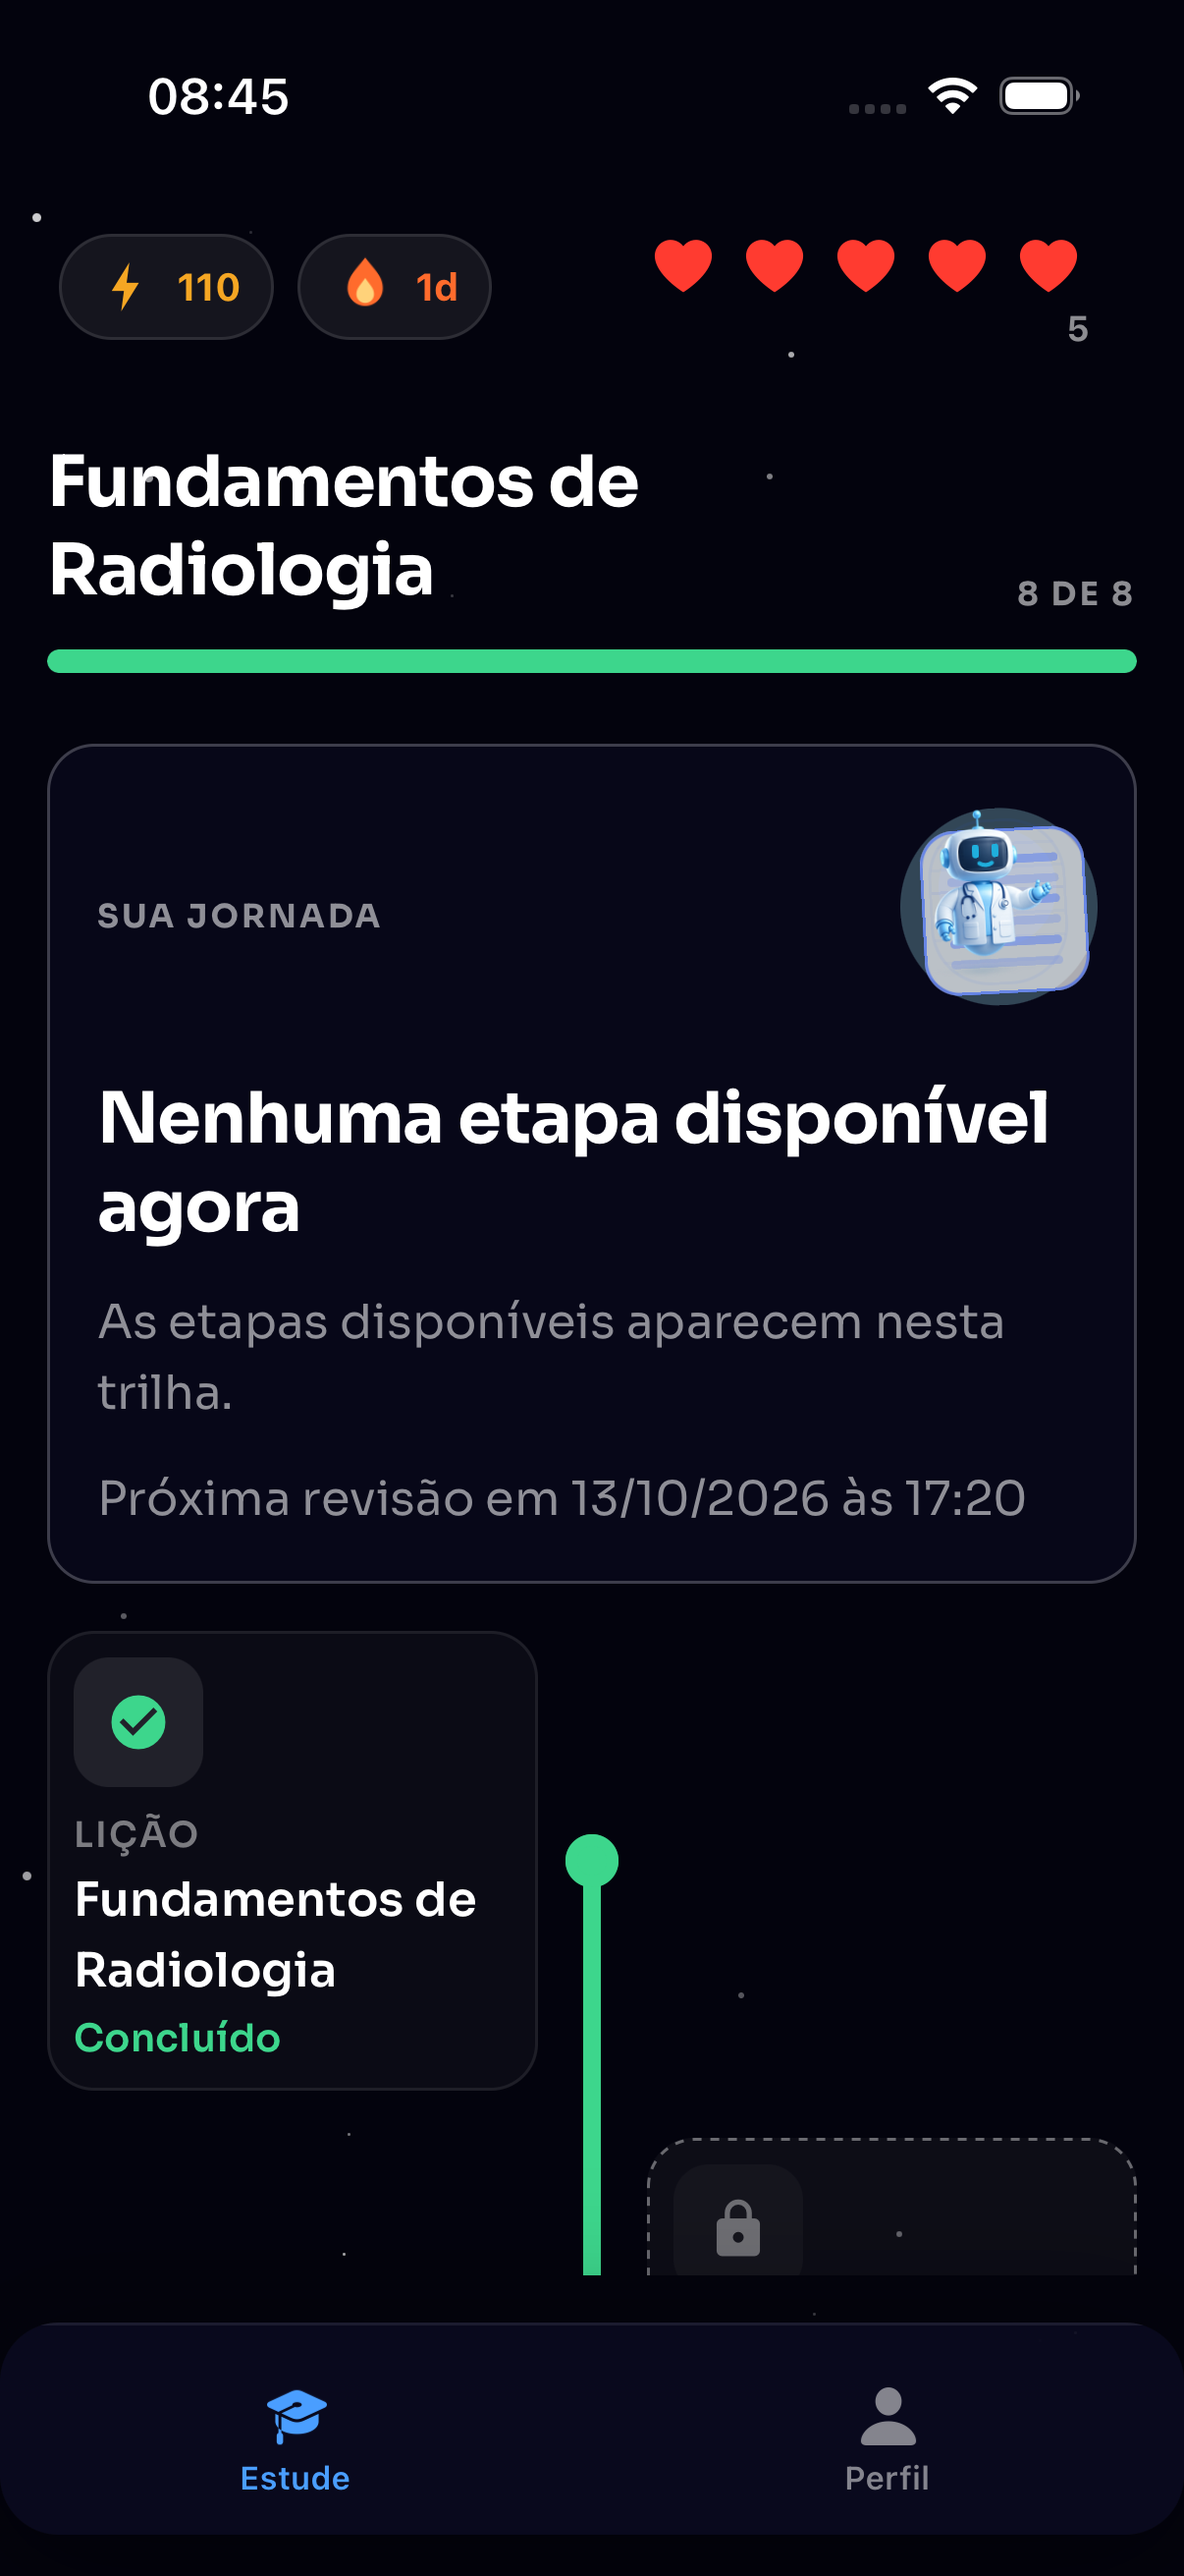
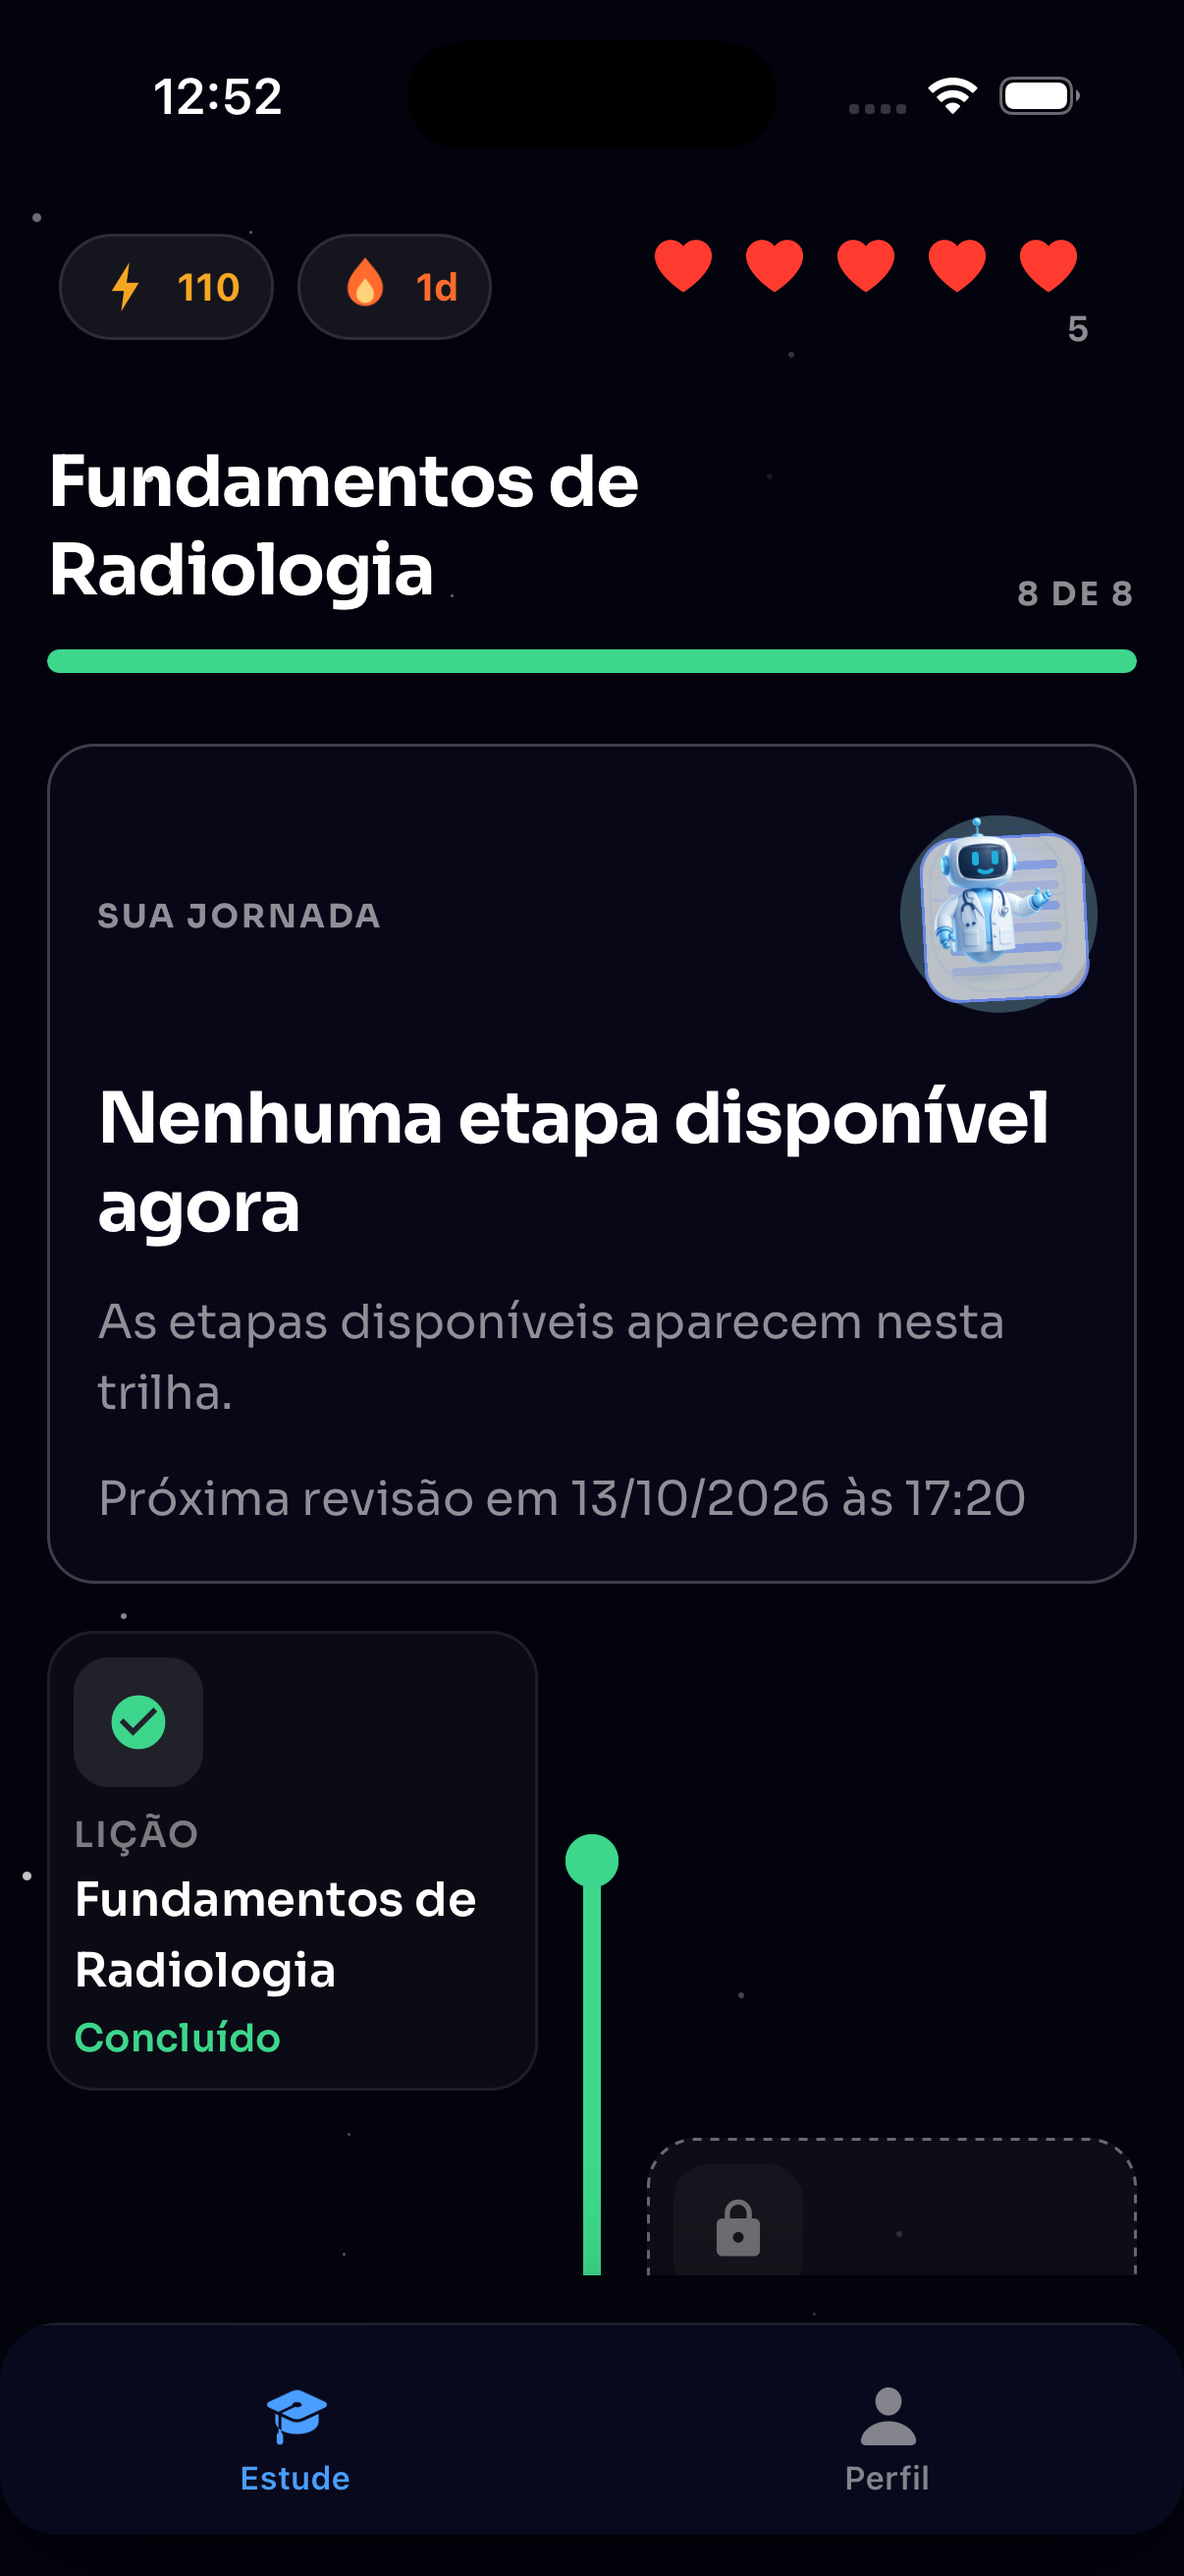
docs(study): record strict visual correction and final native home

Changed region(s): [[0.767, 0.3089, 0.9204, 0.4016], [0.1227, 0.0309, 0.2454, 0.0618]]

diff --git a/docs/evidence/2026-10-12-study-experience-implementation.md b/docs/evidence/2026-10-12-study-experience-implementation.md
@@ -373,3 +373,36 @@ ampliado continua sem limite e com cap2. O teste antigo do cabeçalho não foi
 editado. **2 suítes / 19 testes**, typecheck completo, ESLint dos dois arquivos
 e diff check passaram no mesmo Node20/CI. A matriz nativa anterior tem seu SHA
 original preservado; a correção restaura o contrato padrão e não altera rotas.
+
+Segundo ciclo integral: **13/14 passaram**; suíte `app-test` passou, enquanto
+`app-quality` chegou até o QA visual. O diagnóstico pelo comando exato
+`EXPO_NO_DOTENV=1 CI=1 npm run quality` confirmou **157 suítes / 1550 testes /
+1 snapshot PASS**, lint com 0 erros/26 avisos, typecheck e contratos aprovados.
+Única reprovação: R5 sobre `PixelIllustration` importado pelo card genérico.
+A correção mantém a composição do personagem na Home e injeta o elemento no
+slot decorativo do card, preservando aparência e acessibilidade. Política,
+baseline e regra de QA não são alteradas.
+
+```text
+Unapproved regressions:
+src/features/journey/components/JourneyRecommendationCard.tsx:5 [R5]
+Character usage in potential non-standard screen: JourneyRecommendationCard.tsx.
+Scanned 380 files.
+Found 65 issues: 1 regressions, 61 baselined, 3 scoped exceptions.
+Visual QA failed.
+```
+
+- Ruling: keep character composition owned by JourneyHomeScreen and inject it into the generic card presentation slot — follows existing allowed Home archetype without widening scope or weakening visual policy — cost if wrong: decorative character may disappear or gain an accessibility stop; rendered assertion and native final view check it.
+
+Correção visual em `c9169ee`: Home compõe o Pixel pequeno/guide; Card recebe
+`accessory` opcional no mesmo wrapper decorativo oculto ao leitor de tela.
+Teste usa o Pixel real, asset/imagem de 60pt e ancestral acessível, sem mock ou
+espelho de props. **79 testes**, typecheck, ESLint/diff passaram; QA visual
+estrito passou com **0 regressões**, 61 baselines e 3 exceções já existentes
+inalteradas. Nenhuma política/regra/baseline foi flexibilizada.
+
+Home nativa recapturada no iPhone17 às12:51, código `c9169ee`: Pixel visível,
+título padrão em duas linhas, 110XP/8de8/5vidas preservados; sem clearState.
+`home.png` é esta captura final; as demais oito capturas conservam suas
+medições anteriores. Simulador dedicado desligado e app principal parado
+antes da repetição integral. A abertura para avaliação acontece após o gate.
